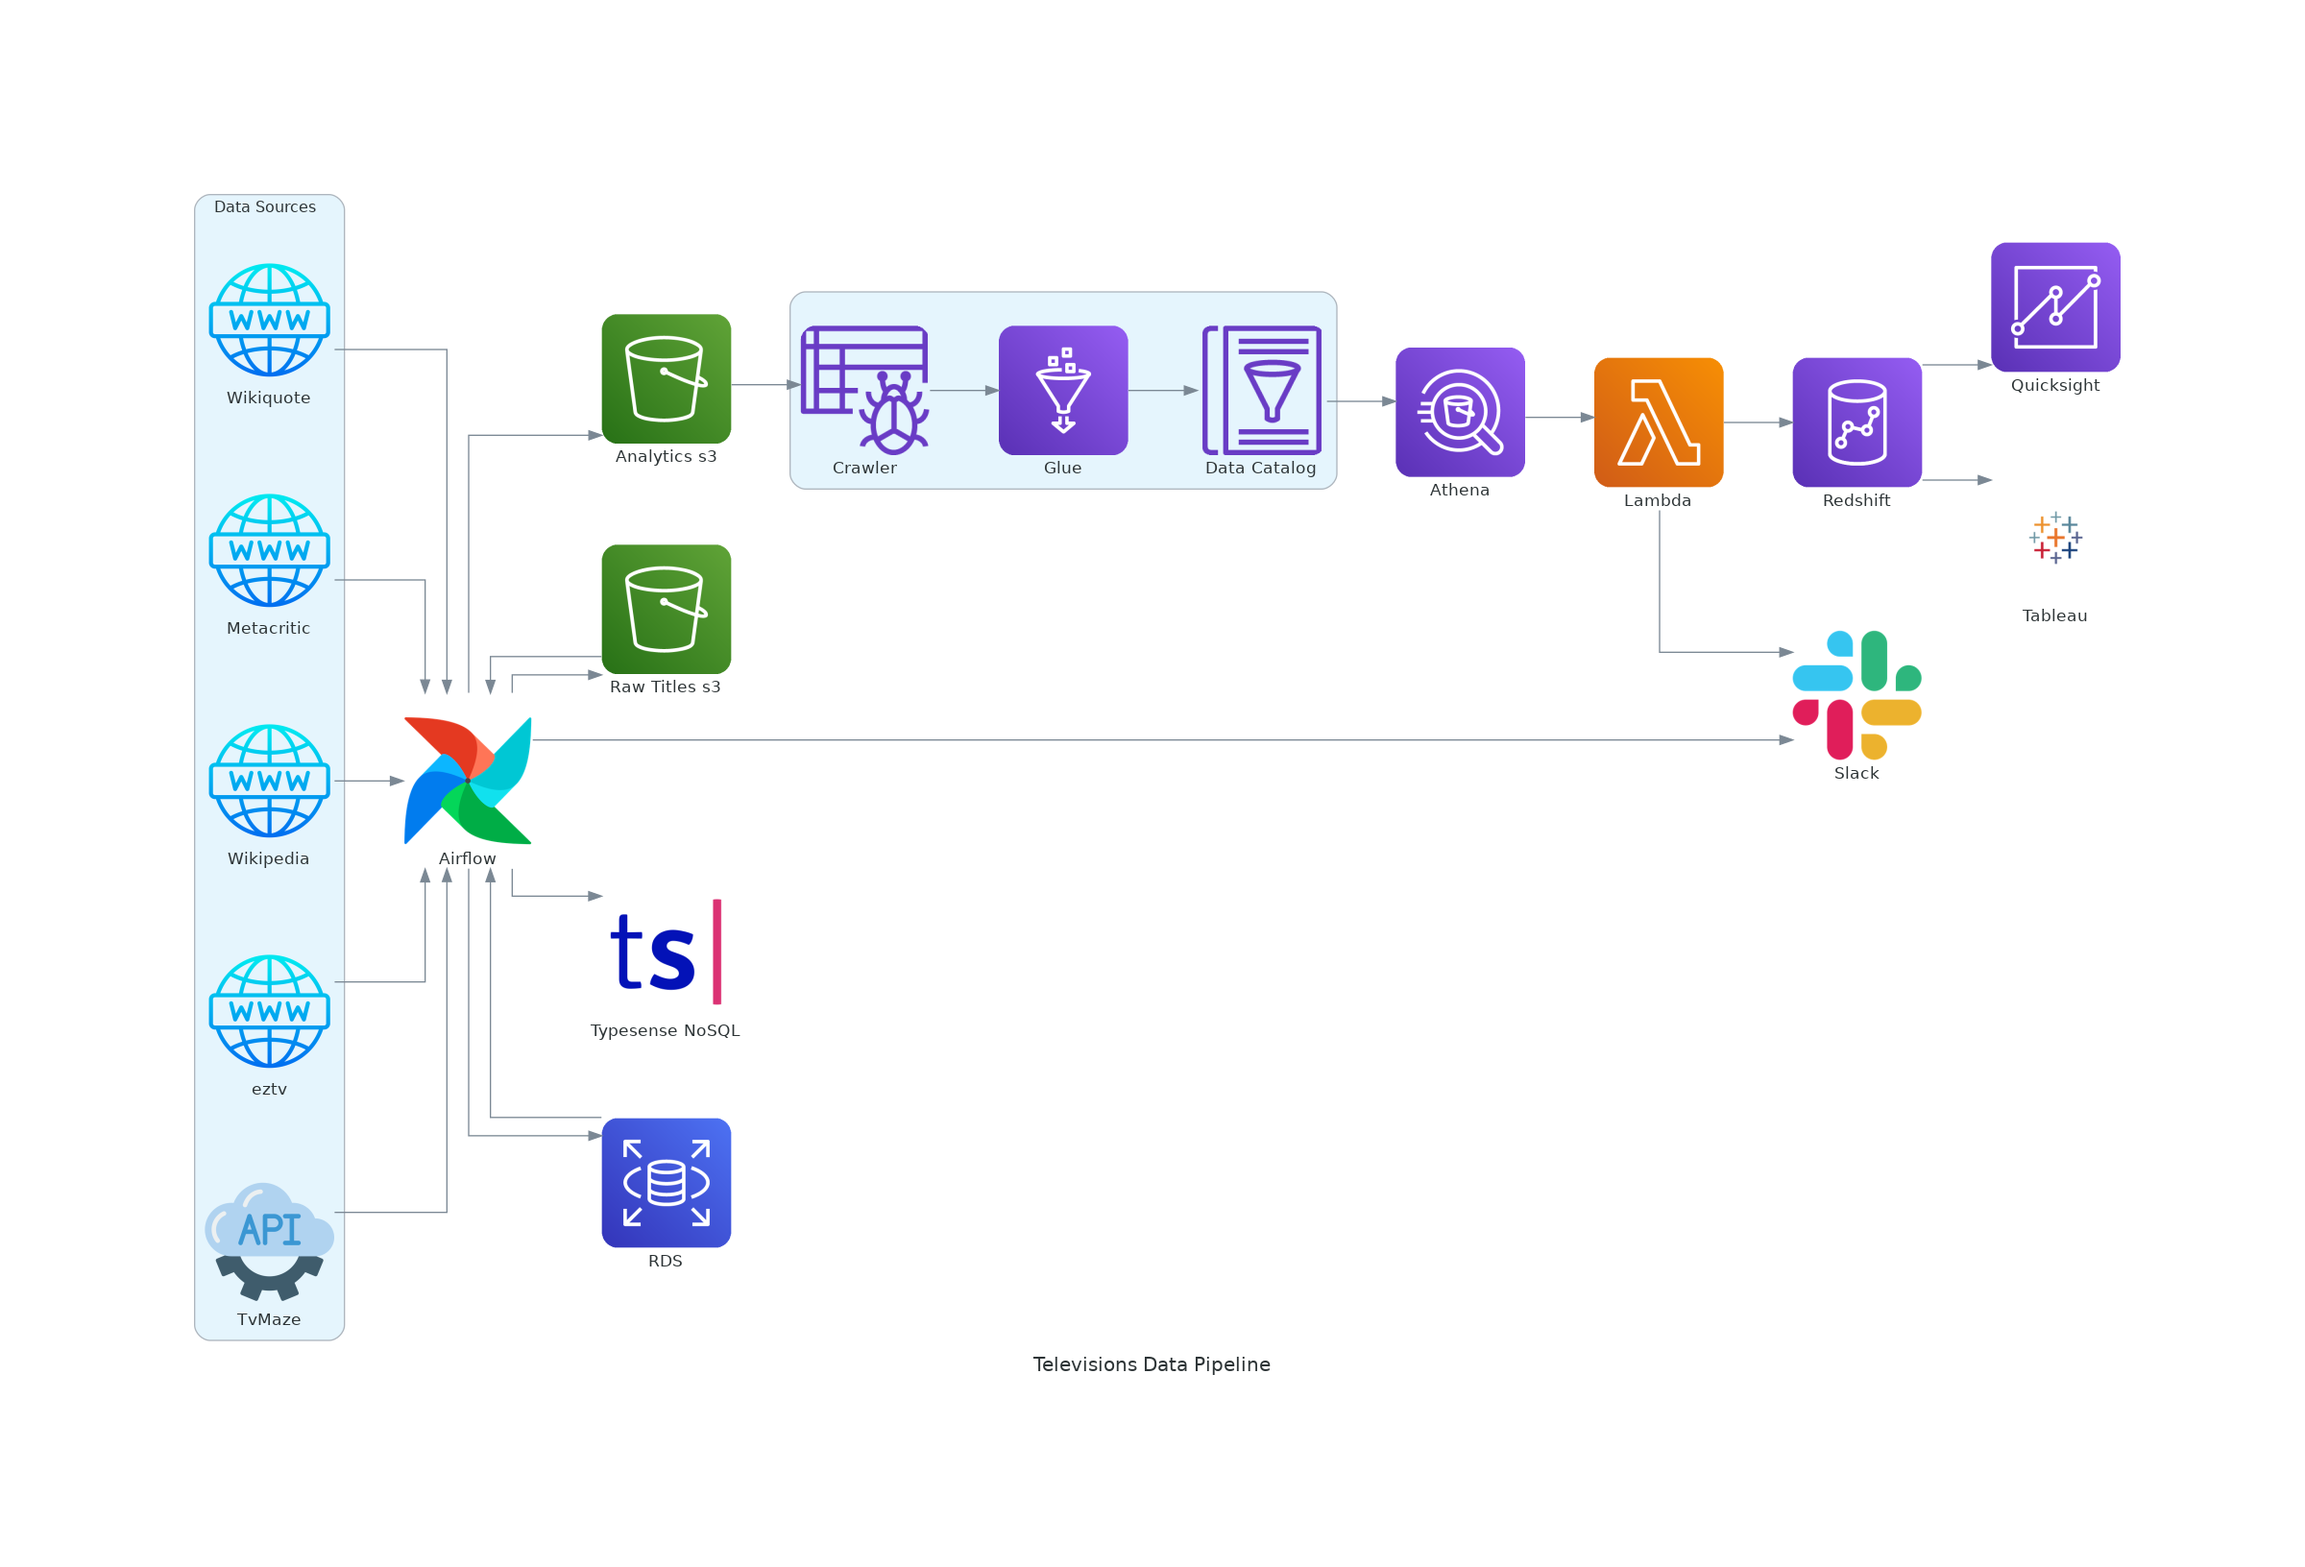
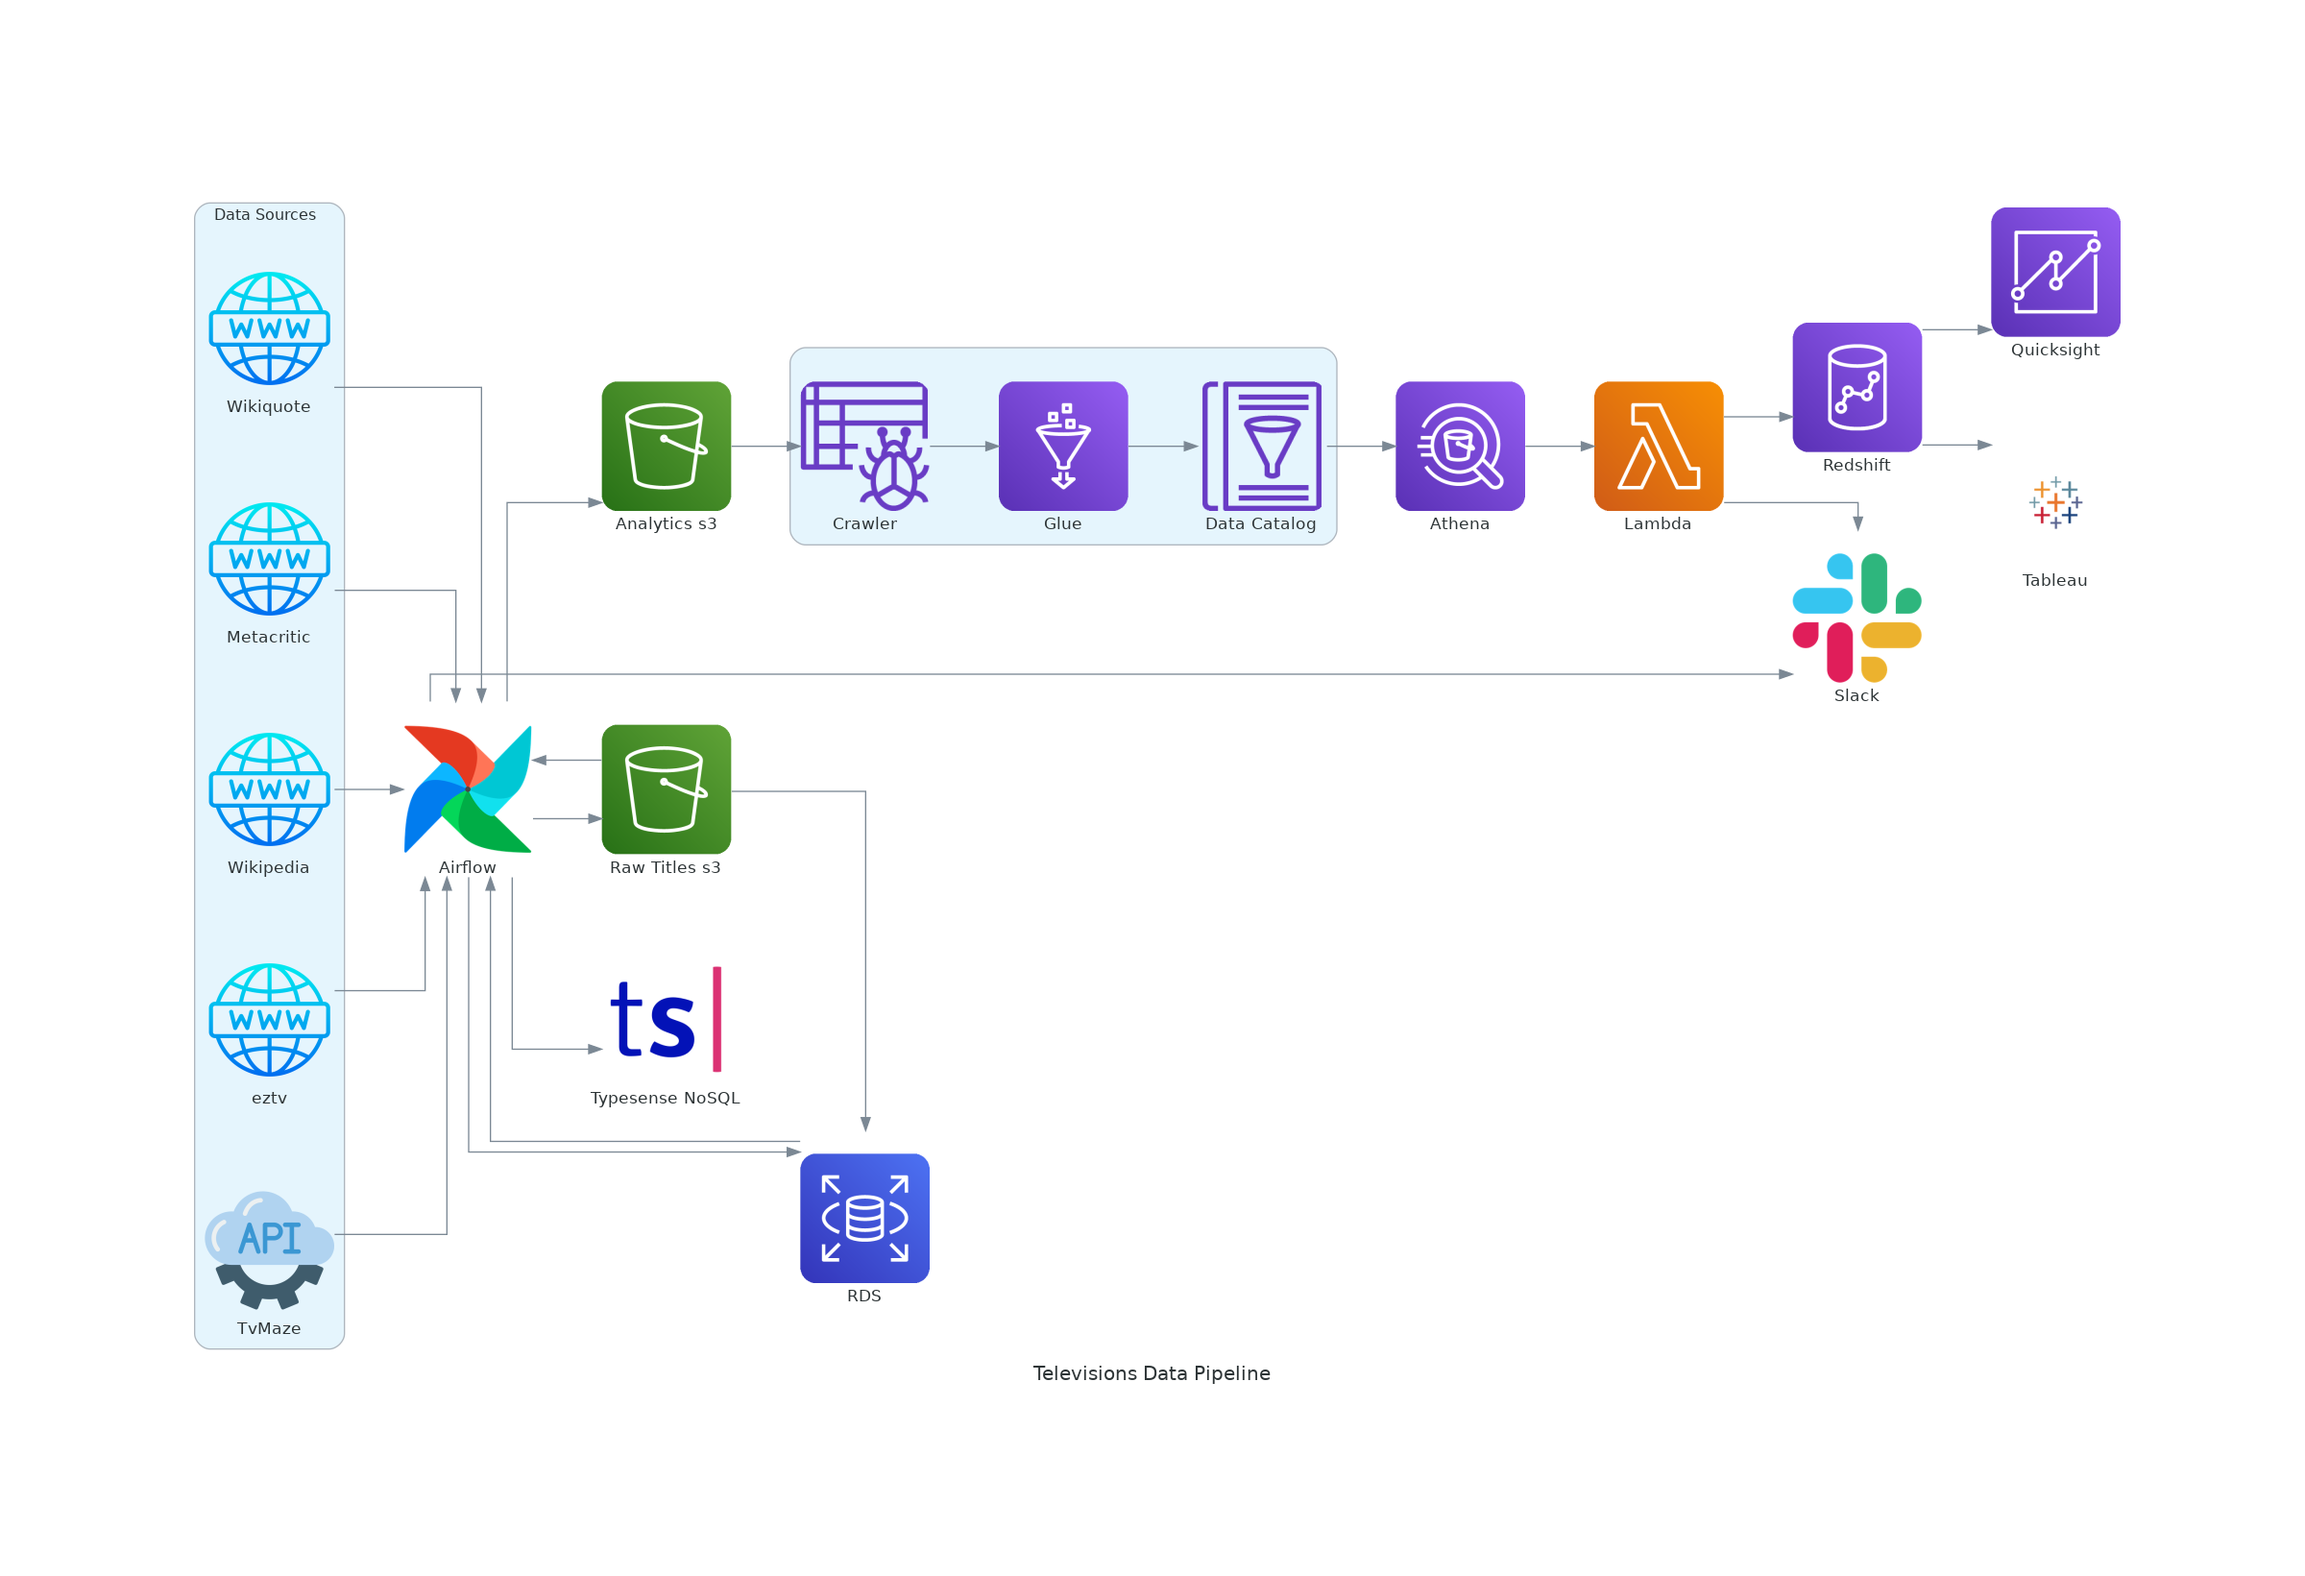
feat: redraw diagram for new architecture

diff --git a/doc/diagram.py b/doc/diagram.py
@@ -67,3 +67,5 @@ with Diagram('Televisions Data Pipeline', show=False, filename='doc/data_pipelin
     rdbs = RDS('RDS')
     airflow >> load_edge >> rdbs
     rdbs >> read_edge >> airflow
+
+    s3_saving >> Edge() >> rdbs
